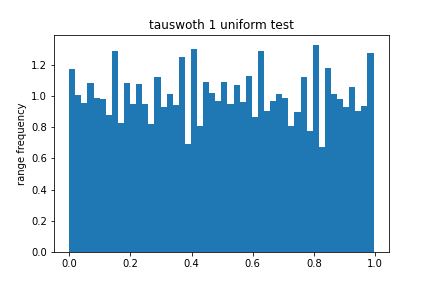
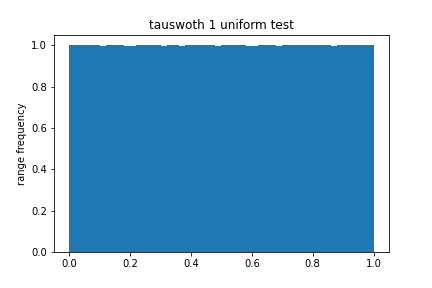
procer lib structure

diff --git a/es3_DeviceHost/src/myRandom.hpp b/es3_DeviceHost/src/myRandom.hpp
@@ -1,44 +1,44 @@
+/**
+ * @file myRandom.hpp
+ * @author Lorenzo Magnoni/Andrea Ripamonti/Matteo Martelli (you@domain.com)
+ * @brief  This class implement three different methods for the generation of random numbers. The class is
+ *         structured to be usable also by the GPU. 
+ *    
+ * @version 1.0
+ * @date 2022-05-25
+ * 
+ * @copyright Copyright (c) 2022
+ * 
+ */
+
 #ifndef __MYRANDOM__
 #define __MYRANDOM__
 
 
-#include <iostream> // cout
+#include <iostream> // cout, endl
 #include <math.h>   // sin, cos
 #include <climits>  //INT_MAX
 
 
 
-
 namespace rnd
 {
+    // cuda macro
     #define H __host__
     #define D __device__
     #define HD __host__ __device__ 
+    //gaussian method macros type
+    #define GAUSSIAN_1 1
+    #define GAUSSIAN_2 2
+    //tausworth method macros type
+    #define TAUSWORTH_1 1
+    #define TAUSWORTH_2 2
+    #define TAUSWORTH_3 3
 
-    #define GAUSSIAN_1 0
-    #define GAUSSIAN_2 1
 
-    #define TAUSWORTH_1 0
-    #define TAUSWORTH_2 1
-    #define TAUSWORTH_3 2
-
-    #define TAUS_1_K1 13
-    #define TAUS_1_K2 19
-    #define TAUS_1_K3 12
-    #define TAUS_1_M  4294967294UL
-
-    #define TAUS_2_K1 2
-    #define TAUS_2_K2 25
-    #define TAUS_2_K3 4
-    #define TAUS_2_M  4294967288UL
-
-    #define TAUS_3_K1 3
-    #define TAUS_3_K2 11
-    #define TAUS_3_K3 17
-    #define TAUS_3_M  4294967280UL
-    // typedef unsigned int uint; for windows
+    typedef unsigned int uint; //for windows
     
-    //---------------------------------------------------------------------------------------- 
+    //############################################################################################ 
     
     //      abstract class 
     class MyRandom
@@ -46,32 +46,51 @@ namespace rnd
       public:
         HD MyRandom(){};
         HD ~MyRandom(){};
-      
+
         HD virtual double genUniform(const double min = 0, const double max = 1) = 0;
-        
         HD virtual double genGaussian(const double mean = 0, const double dev_std = 1) = 0;
+
       protected:
         HD virtual uint genUniformInt() = 0;
     };
 
-
+  /**
+   * @brief implement the genGaussian and gen Uniform method. Also introduce the status class flag to
+   *        check if the generator is usable. Constructor is not accesible by the user.
+   */
   class MyRandomImplementation : public MyRandom
   {
     public:
+      /**
+       * @brief generate numbers according to the uniform destribution. 
+       * @param min 
+       * @param max 
+       * @return double 
+       */
       HD double genUniform(const double min = 0., const double max = 1.);
+      /**
+       * @brief generate gaussian numbers from a uniform distribution. Use both the possible 
+       *        box-muller formulas. Default is the trigonometric one.
+       * @param mean 
+       * @param dev_std 
+       * @return double 
+       */
       HD double genGaussian(const double mean = 0., const double dev_std = 1.);
+
       HD void   setGaussImpl(const uint type);
+      HD bool   getStatus() const;
   
     protected: // accessible by all subclasses
-      HD MyRandomImplementation(uint m=UINT_MAX);
+      HD MyRandomImplementation(uint m=UINT_MAX); 
       HD void setM(uint m);
+      bool    _status = true;
+    
     private:
       bool    _storedValue = false;
       double  _value;
       uint    _m, _type = GAUSSIAN_1;
   };
       
-
   class GenLinCongruential : public MyRandomImplementation
   {
     protected:
@@ -80,7 +99,7 @@ namespace rnd
       static const uint DEFAULT_B = 1013904223;
       HD GenLinCongruential(){};
       /**
-       * @brief Construct a new Linnear Generator Congruential object that generate random
+       * @brief Linnear Generator Congruential object that generate random
        *        number following the rule: S_{i+1} = (a* S_i + b) mod m
        * 
        * @param seed 
@@ -90,11 +109,10 @@ namespace rnd
        */
       HD GenLinCongruential(uint seed, uint a = DEFAULT_A, uint b = DEFAULT_B , uint m = UINT_MAX);
       HD ~GenLinCongruential(){};
+      HD uint genUniformInt();
     private:
       uint _a, _b, _m; 
       uint _current;
-      friend class GenCombined; //to get access to genUnifomInt
-      HD uint genUniformInt();
   };
 
   
@@ -104,23 +122,52 @@ namespace rnd
     protected:
     public:
       HD GenTausworth(){};
-      HD GenTausworth(uint seed, uint type);
-      HD ~GenTausworth(){};
-      HD bool getStatus() const;
-    private: 
-      uint _k1,_k2,_k3,_m;
-      uint _current;
-      bool _status = true;
-      friend class GenCombined; // to get access to genUnifomInt
+      /**
+       * @brief Tausoworth method for random numbers generation. Three different parametres
+       *        set are available.
+       * 
+       * @param seed 
+       * @param type TAUSWORTH_[1-2]
+       */
+      HD GenTausworth(const uint seed,const uint type = TAUSWORTH_1);
       HD uint  genUniformInt();
+      HD ~GenTausworth(){};
+    private: 
+      uint _type,_k1,_k2,_k3,_m;
+      uint _current;
+      //tausworth parametres
+      static const uint TAUS_1_K1 = 13U;
+      static const uint TAUS_1_K2 = 19U;
+      static const uint TAUS_1_K3 = 12U;
+      static const uint TAUS_1_M  = 4294967294UL;
+
+      static const uint TAUS_2_K1 = 2U;
+      static const uint TAUS_2_K2 = 25U;
+      static const uint TAUS_2_K3 = 4U;
+      static const uint TAUS_2_M  = 4294967288UL;
+
+      static const uint TAUS_3_K1 = 3U;
+      static const uint TAUS_3_K2 = 11U;
+      static const uint TAUS_3_K3 = 17U;
+      static const uint TAUS_3_M  = 4294967280UL;
   };
 
   class GenCombined : public MyRandomImplementation
   {
     public:
+      HD GenCombined();
+      /**
+       * @brief combined three tausworth generator and one linear congruential to get a longer period. Needs a seed
+       *        for each of the four generators.
+       * @param seed1  (tausworth)
+       * @param seed2  (tausworth)
+       * @param seed3  (tausworth)
+       * @param seed4  (lin congruential)
+       * @param m 
+       */
       HD GenCombined(uint seed1, uint seed2, uint seed3, uint seed4, uint m = UINT_MAX);
       HD ~GenCombined(){};
-      HD bool getStatus() const;
+      HD uint genUniformInt();
 
     private:
       uint _seed1, _seed2, _seed3, _seed4, _m;
@@ -128,9 +175,13 @@ namespace rnd
 
       GenTausworth genT1, genT2, genT3;
       GenLinCongruential genL1;
-      bool _status = true;
-      HD uint genUniformInt();
+
+      HD void genSeeds();
+      HD void genSeeds(const uint seed);
   };
+
+  //seeds generetor functions
+  H uint genSeed(bool tausworth = false); // tausworth seed must be > 128
 }
 
 
